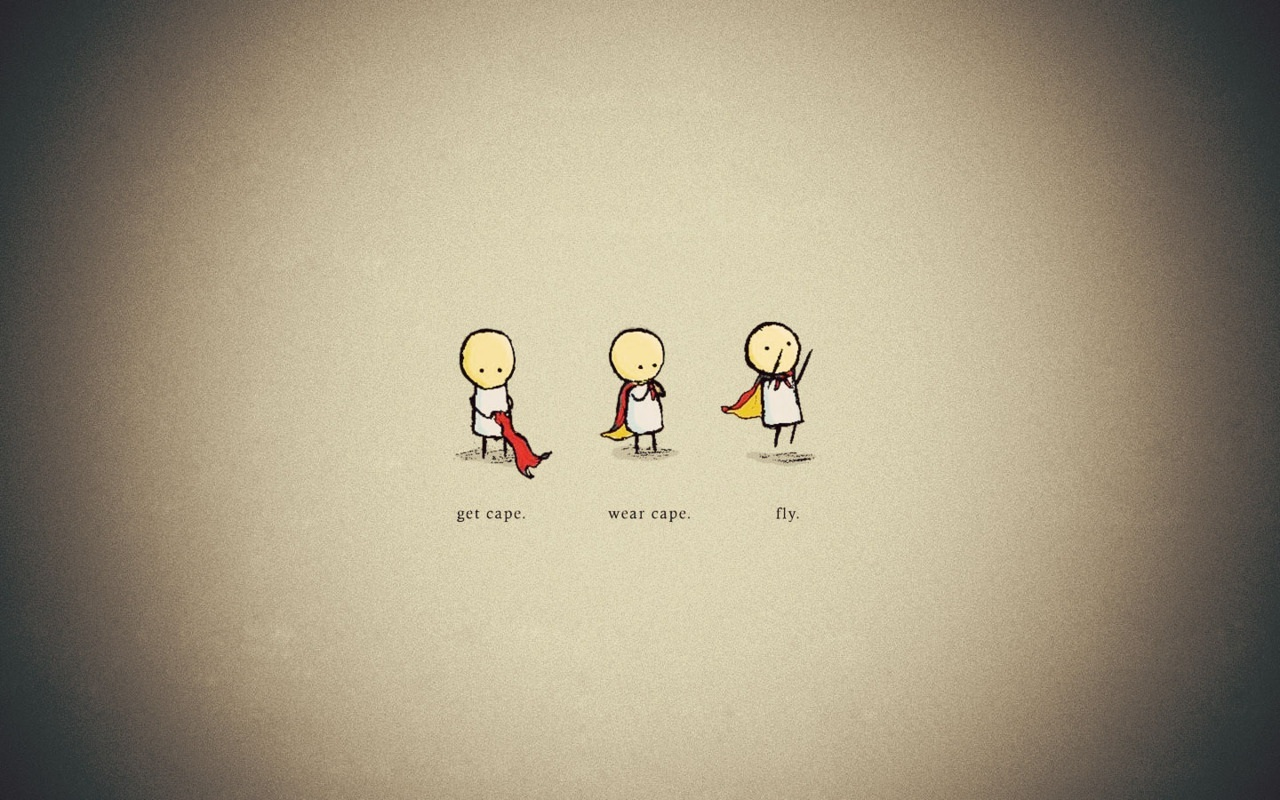
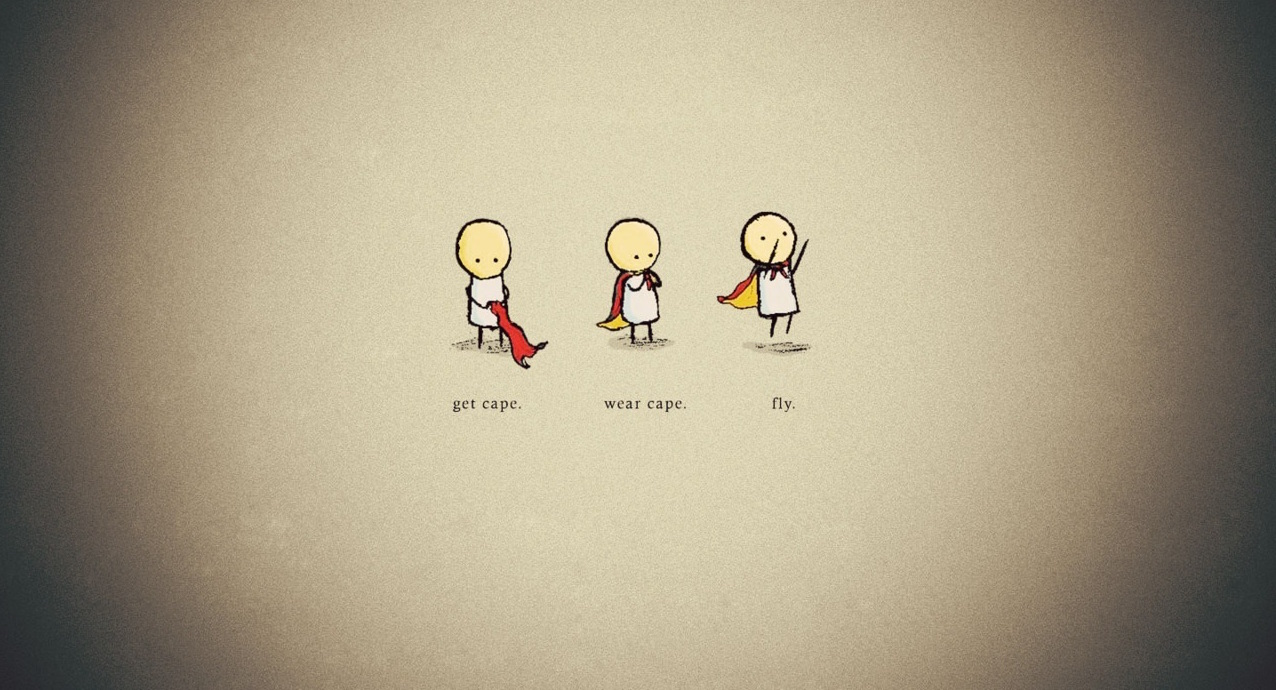
edited background picture and rewrote the about page

diff --git a/about/index.md b/about/index.md
@@ -9,26 +9,28 @@ comments: false
 modified: 2014-12-24
 ---
 
-They say three times the charm, so here is another free responsive Jekyll blog theme for you. I've learned a ton since open sourcing my first two themes [on Github](http://github.com/mmistakes), and wanted to try a few new things this time around. 
+My name is Amaraj Judge && I'm here to entertain. Or at least to try. Hopefully. Maybe. Quite Possibly. Just guess we'll have to see.
 
-If you've used any of [my other themes](http://mademistakes.com/work/jekyll-themes/) most of this should be familiar territory...
+## What Are My Goals
+* Make others happy and feel all warm and fuzzy on the inside
+* Let people like they fit in, __Remember Kids__ its (it's? I never know) cool to be a nerd
+* Show minorities that we have a voice and its getting louder
+* Make people laugh (not your typical "lol" but your "LAWL", I want all the "LAWLS")
+* Avoid doing real work
+* Grow a beard, we all have dreams, let me have mine
 
-## What HPSTR brings to the table:
+## How Do I Plan On Doing This
+* Slam Poems
+* Raps
+* Videos
+* Tickling
+* Blogs
+* Praying to the old norse gods
+* Smiling till it hurts
 
-* Responsive templates for post, page, and post index `_layouts`. Looks great on mobile, tablet, and desktop devices.
-* Gracefully degrads in older browsers. Compatible with Internet Explorer 8+ and all modern browsers.  
-* Modern and minimal design.
-* Sweet animated menu.
-* Background image support.
-* Readable typography to make your words shine.
-* Support for large images to call out your favorite posts.
-* Built-in support for Sass courtesy of Jekyll 2.x.
-* Optional [Disqus](http://disqus.com) comments.
-* Simple and clear permalink structure[^1].
-* [Open Graph](https://developers.facebook.com/docs/opengraph/) and [Twitter Cards](https://dev.twitter.com/docs/cards) support for a better social sharing experience.
-* Simple [custom 404 page]({{ site.url }}/404.html) to get you started.
-* Stylesheets for Pygments and Coderay [syntax highlighting]({{ site.url }}/code-highlighting-post/) to make your code examples look snazzy.
+## Why Do I Think I Can Do This
+* I don't but enough people haven't told me to quit yet so I am going to keep trying
 
-<div markdown="0"><a href="{{ site.url }}/theme-setup/" class="btn btn-info">Theme Setup</a> <a href="https://github.com/mmistakes/hpstr-jekyll-theme" class="btn btn-success">Download HPSTR</a></div>
-
-[^1]: Example: *domain.com/category-name/post-title*
+## How Can You Be More Like Me
+* Always wear more floral
+* Seriously, no one has enough Hawaiian shirts and I can't let society go down this godforsaken path
